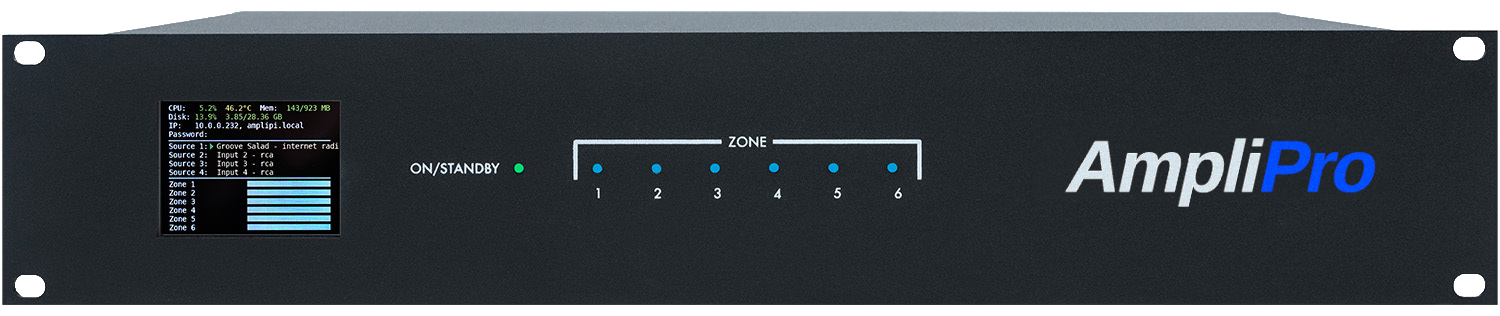
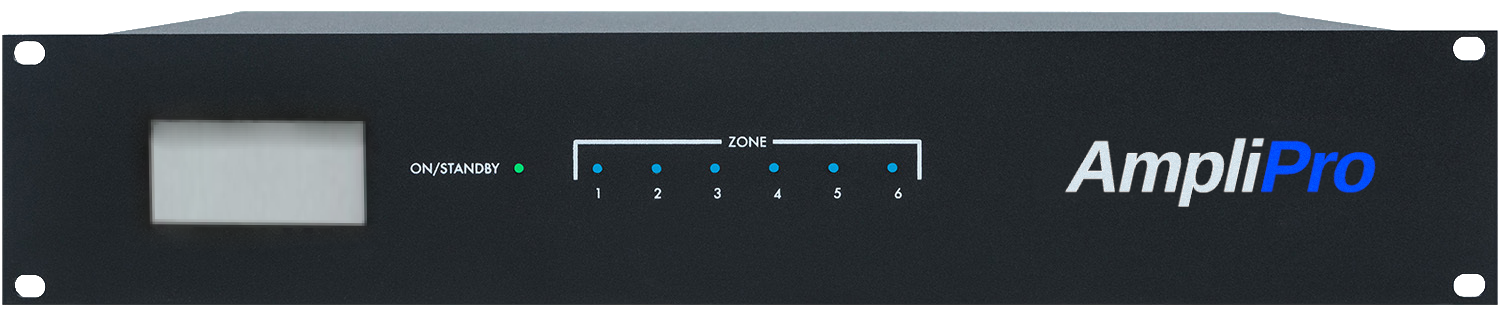
Remove all references to "streamer unit" from the entire repo, now simply called "streamer"
Update formatting, verbiage, replace imagery in manuals

Changed region(s): [[0.092, 0.3133, 0.2453, 0.7405]]

diff --git a/docs/manuals/main/MAIN_CONTROLLER_SPECS.tex b/docs/manuals/main/MAIN_CONTROLLER_SPECS.tex
@@ -3,16 +3,16 @@
 \setlength{\arrayrulewidth}{0.5mm}
 
 \resizebox{\textwidth}{!}{
-  \begin{tabular}{|p{4cm}|p{10cm}|}
+  \begin{tabular}{| >{\centering\arraybackslash}m{4cm} | >{\arraybackslash}m{10cm} |}
   \hline
   \textbf{Feature} & \textbf{Description} \\
   \hline
 
   Streaming Sources
   &
-  Airplay\texttrademark, Pandora\textregistered, Spotify Connect\texttrademark, DLNA\textregistered,\newline
-  Lyrion Media Server (LMS), Internet Radio,\newline
-  FM Radio*, Bluetooth\texttrademark*, Local Media Playback* \\
+  Airplay\texttrademark, Pandora\textregistered, Spotify Connect\texttrademark, Airplay\texttrademark  1 \& 2,\newline
+  DLNA\textregistered, Lyrion Media Server (LMS), Internet Radio,\newline
+  FM Radio*, Bluetooth\texttrademark*, Local Media Playback \\
 
   \hline
 
@@ -24,7 +24,8 @@
 
   Dimensions
   &
-  2U 19" rackmount unit, 12.5” L x 19” W x 3.5” H \\
+  2U 19" rackmount unit \newline
+  12.5” L x 19” W x 3.5” H \\
 
   \hline
 
@@ -62,14 +63,9 @@
 
   Outputs
   &
-  4 x Line-Level RCA \newline Ch 1: up to 32-bit 384 kHz DAC output \newline Ch 2-4: up to 16-bit 48 kHz DAC output \\
-
-  \hline
-
-  Speaker Power
-  &
-  55 WPC @ 4 Ω \newline
-  32 WPC @ 8 Ω \\
+  4 x Line-Level RCA \newline
+  Ch 1: up to 32-bit 384 kHz \newline
+  Ch 2-4: up to 16-bit 48 kHz \\
 
   \hline
 
@@ -95,11 +91,11 @@
   Inputs
   &
   4 x RCA Line In \newline
-  Max input level: 2.0 VRMS (6dBV) \newline
-  Input Sensitivity: 0.35 VRMS \newline
-  2 x External USB 2.0 \newline
-  1 x Internal USB 2.0 \newline
-  1 x 3.5mm Audio Jack \\
+    - Max input level: 2.0 VRMS (6dBV) \newline
+    - Input Sensitivity: 0.35 VRMS \newline
+  2 x External USB 2.0** \newline
+  1 x Internal USB 2.0** \newline
+  1 x 3.5mm Audio Input \\
 
   \hline
 
@@ -110,5 +106,8 @@
   \hline
   \end{tabular}
 }
-
-*With third-party USB hardware
+\\
+\\
+*With third-party hardware
+\\
+**Powered, max draw 0.5 A

diff --git a/docs/manuals/streamer/STREAMER_SPECS.tex b/docs/manuals/streamer/STREAMER_SPECS.tex
@@ -3,28 +3,29 @@
 \setlength{\arrayrulewidth}{0.5mm}
 
 \resizebox{\textwidth}{!}{
-  \begin{tabular}{|p{4cm}|p{10cm}|}
+  \begin{tabular}{| >{\centering\arraybackslash}m{4cm} | >{\arraybackslash}m{10cm} |}
   \hline
   \textbf{Feature} & \textbf{Description} \\
   \hline
 
   Streaming Sources
   &
-  Airplay\texttrademark, Pandora\textregistered, Spotify Connect\texttrademark, DLNA\textregistered,\newline
-  Lyrion Media Server (LMS), Internet Radio,\newline
-  FM Radio*, Bluetooth\texttrademark*, Local Media Playback* \\
+  Airplay\texttrademark, Pandora\textregistered, Spotify Connect\texttrademark, Airplay\texttrademark  1 \& 2,\newline
+  DLNA\textregistered, Lyrion Media Server (LMS), Internet Radio,\newline
+  FM Radio*, Bluetooth\texttrademark*, Local Media Playback \\
 
   \hline
 
   Control Interfaces
   &
-  Web App, Mobile App, REST API, Third-Party Drivers \\
+  iOS App, Android App, Web App, REST API, Third-Party Drivers \\
 
   \hline
 
   Dimensions
   &
-  1U 19" rackmount unit with 2.5” depth, 6" L x 19" W x 1.75" H \\
+  1U 19" rackmount \newline
+  6" D x 19" W x 1.75" H \\
 
   \hline
 
@@ -36,7 +37,7 @@
 
   Connectivity
   &
-  100Mbps Ethernet\\
+  100Mbps Ethernet \\
 
   \hline
 
@@ -54,16 +55,23 @@
 
   Outputs
   &
-  4 x Line-Level RCA \newline Ch 1: up to 32-bit 384 kHz DAC output \newline Ch 2-4: up to 16-bit 48 kHz DAC output \\
+  4 x Line-Level RCA \newline
+  Ch 1: up to 32-bit 384 kHz \newline
+  Ch 2-4: up to 16-bit 48 kHz \\
 
   \hline
 
   Inputs
   &
-  2 x External USB 2.0 \newline 1 x Internal USB 2.0 \newline 1 x 3.5mm Audio Jack \\
+  2 x External USB 2.0** \newline
+  1 x Internal USB 2.0** \newline
+  1 x 3.5mm Audio Input \\
 
   \hline
   \end{tabular}
 }
-
-*With third-party USB hardware
+\\
+\\
+*With third-party hardware
+\\
+**Powered, max draw 0.5 A

diff --git a/docs/manuals/expander/ZONE_EXPANDER_SPECS.tex b/docs/manuals/expander/ZONE_EXPANDER_SPECS.tex
@@ -3,14 +3,15 @@
 \setlength{\arrayrulewidth}{0.5mm}
 
 \resizebox{\textwidth}{!}{
-  \begin{tabular}{|p{4cm}|p{10cm}|}
+  \begin{tabular}{| >{\centering\arraybackslash}m{4cm} | >{\arraybackslash}m{10cm} |}
   \hline
   \textbf{Feature} & \textbf{Description} \\
   \hline
 
   Dimensions
   &
-  2U 19" rackmount unit with 300mm depth, 12.5” L x 19” W x 3.5” H \\
+  2U 19" rackmount unit \newline
+  12.5” L x 19” W x 3.5” H \\
 
   \hline
 
@@ -42,14 +43,9 @@
 
   Outputs
   &
-  4 x Line-Level RCA \newline Ch 1: up to 32-bit 384 kHz DAC output \newline Ch 2-4: up to 16-bit 48 kHz DAC output \\
-
-  \hline
-
-  Speaker Power
-  &
-  55 WPC @ 4 Ω \newline
-  32 WPC @ 8 Ω \\
+  4 x Line-Level RCA \newline
+  Ch 1: up to 32-bit 384 kHz \newline
+  Ch 2-4: up to 16-bit 48 kHz \\
 
   \hline
 
@@ -74,13 +70,7 @@
 
   Inputs
   &
-  1 x Chain In (audio from Chain Out from main unit) \\
-
-  \hline
-
-  Digital Audio Sources
-  &
-  32-bit 384KHz (Source 1), 16-bit 48KHz (Sources 2, 3, 4) \\
+  1 x Chain In (audio from main unit) \\
 
   \hline
   \end{tabular}

diff --git a/amplipi/models.py b/amplipi/models.py
@@ -976,7 +976,7 @@ class Info(BaseModel):
   mock_ctrl: bool = Field(
     default=False, description='Is the controller being mocked? Indicates AmpliPi hardware is not connected')
   mock_streams: bool = Field(default=False, description='Are streams being faked? Used for testing.')
-  is_streamer: bool = Field(default=False, description='Are we a streamer unit?')
+  is_streamer: bool = Field(default=False, description='Are we a streamer?')
   online: bool = Field(default=False, description='can the system connect to the internet?')
   latest_release: str = Field(default='unknown', description='Latest software release available from GitHub')
   access_key: str = Field(default='', description='session token/API key used for authentication')

diff --git a/amplipi/tests.py b/amplipi/tests.py
@@ -298,7 +298,7 @@ def streamer_test(ap1: Client):
     print('Failed to get AmpliPi status.')
     sys.exit(1)
   if len(status.zones) != 0:
-    raise Exception("""Unit has zones. It may not have detected it was a streamer unit.
+    raise Exception("""Unit has zones. It may not have detected it was a streamer.
       Do a factory reset and try testing again.""")
   print('Test will play Digital 1 Left... Digital 4 Right')
   print('- Verify that each side of all 4 sources are played out the corresponding RCA outputs')

diff --git a/docs/manuals/streamer-manual.tex b/docs/manuals/streamer-manual.tex
@@ -37,7 +37,7 @@
   }
 }
 \title{
-  \textbf{\raisebox{-0.475em}{\includegraphics[height=1.65em]{imgs/amplipro_nobg.png}} Streamer Unit - User Manual}
+  \textbf{\raisebox{-0.475em}{\includegraphics[height=1.65em]{imgs/amplipro_nobg.png}} Streamer - User Manual}
 }
 \date{}
 \setlength\parindent{0pt}

diff --git a/docs/manuals/streamer/OVERVIEW.md b/docs/manuals/streamer/OVERVIEW.md
@@ -2,34 +2,34 @@
 The AmpliPro Streamer (sometimes referred to as "the unit" or "the device" by this manual) is a multi-source home audio controller made for whole-home audio systems with many zones, specifically designed to be compatible with preexisting setups. It can play up to 4 simultaneous audio streams (Airplay™, Pandora®, Spotify Connect™, etc.) with each routed to one of the outputs, all of which are configurable in real-time using the mobile apps (see QR codes on the first page of this manual), self-hosted AmpliPi Web App, or the underlying REST API. There are also third party drivers available, used by system integrators to interface AmpliPro directly with other systems, such as Nice (formerly ELAN), URC, and Home Assistant to name a few.
 \
 \
-Your AmpliPro Streamer Unit includes the following components:
+Your AmpliPro Streamer includes the following components:
 
 - 1 x Quick Start Guide
-- 1 x AmpliPro Streamer Unit
+- 1 x AmpliPro Streamer
 - 1 x Power Cable
 - 1 x Ethernet Cable
 
 ### Front Panel
 
-![Streamer - Front Panel]( imgs/front_panel_streamer.png)
+![Streamer - Front Panel]( streamer/AmpliPro_streamer_front_no_bg.png)
 
 - **DISPLAY**: Displays system information:
-    * Hostname
-    * IP
-    * Device serial number
-    * Current playstate\* (number of connected streams that are playing, paused, or stopped)
-    * SSH password
+    - Hostname
+    - IP
+    - Device serial number
+    - Current playstate\* (number of connected streams that are playing, paused, or stopped)
+    - SSH password
 
 \* Note - the display keeps last state when power is lost, this data might not be up do date if the ON/STANDBY light is not on
 
 - **ON/STANDBY**: Shows the state of the audio controller:
-    * Solid: The unit is on
-    * Blinking: The unit has an issue. See Troubleshooting page for guide on how to receive support.
+    - Solid: The unit is on
+    - Blinking: The unit has an issue. See Troubleshooting page for guide on how to receive support.
 
 ### Rear Panel
 
 
-![Streamer - Rear Panel]( imgs/rear_panel_streamer.png)
+![Streamer - Rear Panel]( streamer/AmpliPro_streamer_back_no_bg.png)
 
 - **OUTPUT**: Zone pre-amp analog L/R audio outputs
 - **SERVICE**: Micro USB service port, used for troubleshooting and reimaging the device

diff --git a/docs/manuals/streamer/INSTALLATION.md b/docs/manuals/streamer/INSTALLATION.md
@@ -17,7 +17,7 @@ Each of your Streamer's sources outputs as a line-level RCA output pair. These o
 
 ### More Info
 
-More information on installation can be found in AmpliPro’s community forums or our blog. The community forums can be reached from the system settings, simply click on "About", then the "Community" link and see the "Installation and Getting Started" topic on our discourse group, also accessible at amplipi.discourse.group. Our blog can be found at https://blog.amplipro.com. Both of these links can be found on the QR codes page at the start of this manual.
+More information on installation can be found on the [AmpliPro community forums](https://www.amplipi.com/community) or our [main website](https://www.amplipro.com). These links can also be found on the "About" page in your system's settings, or on the links page reached via the QR code at the start of this manual.
 
 
 ## Power
@@ -38,6 +38,8 @@ Now that the AmpliPro Streamer is powered on, it's time to use the software. To 
 Simply enter "amplipi.local" into a web browser, on any device that both has a web browser and is connected to the same network. Android and Windows 7 users will need to type the IP address found on the unit's display into their web browser instead.
 
 ### From the App
+
+Here, we give a basic rundown of the app. For more detail please refer to our blog by scanning the QR code at the start of the manual or by going to https://www.amplipi.com/blog where you can find more detailed articles on how to use the app or use third-party integrations such as Nice (formerly ELAN) and more.
 
 1. Click the plus (+) icon and select a stream
   - The Groove Salad - InternetRadio stream comes preconfigured (needs an internet connection).

diff --git a/docs/manuals/expander/OVERVIEW.md b/docs/manuals/expander/OVERVIEW.md
@@ -22,12 +22,12 @@ Adds 6 output zones to an AmpliPro Controller (often referred to as "AmpliPro Ma
 ![Zone Expander - Front Panel]( expander/expansion_front_panel.jpg)
 
 - **ON/STANDBY**: Shows the state of the audio controller:
-    * Green: The unit is on
-    * Red: The unit is on Standby
-    * Blinking Red: The unit is waiting to be configured
+    - Green: The unit is on
+    - Red: The unit is on Standby
+    - Blinking Red: The unit is waiting to be configured
 - **ZONE**: Shows the power state of each zone
-    * Blue: Zone is on (not muted)
-    * None: Zone is off (muted)
+    - Blue: Zone is on (not muted)
+    - None: Zone is off (muted)
 
 ### Rear Panel
 
@@ -36,5 +36,5 @@ Adds 6 output zones to an AmpliPro Controller (often referred to as "AmpliPro Ma
 - **PREOUT**: Unamplified zone audio outputs, intended for use with powered speakers/subwoofers.
 - **ZONE X**: Amplified stereo outputs for Zone X, using 4-pin Euroblock connectors.
 - **EXPANSION**:
-    * **CHAIN IN**: Connection from previous expansion or main unit.
-    * **CHAIN OUT**: Connection to the next expansion unit (if needed)
+    - **CHAIN IN**: Connection from previous expansion or main unit.
+    - **CHAIN OUT**: Connection to the next expansion unit (if needed)

diff --git a/docs/manuals/main/MAIN_CONTROLLER.md b/docs/manuals/main/MAIN_CONTROLLER.md
@@ -3,12 +3,20 @@
 
 ![Controller - Front Panel]( main/front_main_panel.png)
 
-1. **DISPLAY**: Displays IP Address, Hostname, and SSH Password.
-2. **ON/STANDBY**: Displays the state of the audio controller:
+- **DISPLAY**: Displays system information:
+    - Hostname
+    - IP
+    - Device serial number
+    - Current playstate (number of streams playing, paused, and stopped)
+    - SSH Password
+
+\* Note - the display keeps last state when power is lost, this data might not be up do date if the ON/STANDBY light is not on
+
+- **ON/STANDBY**: Displays the state of the audio controller:
     - Green: The unit is on
     - Red: The unit is on Standby
-    - Blinking Red: The unit is updating / booting
-3. **ZONE**: Displays the power state of each zone
+    - Blinking Red: The unit is updating / booting / cannot start the app (see troubleshooting page for details)
+- **ZONE**: Displays the power state of each zone
     - Blue: Zone is on (not muted)
     - None: Zone is off (muted)
 
